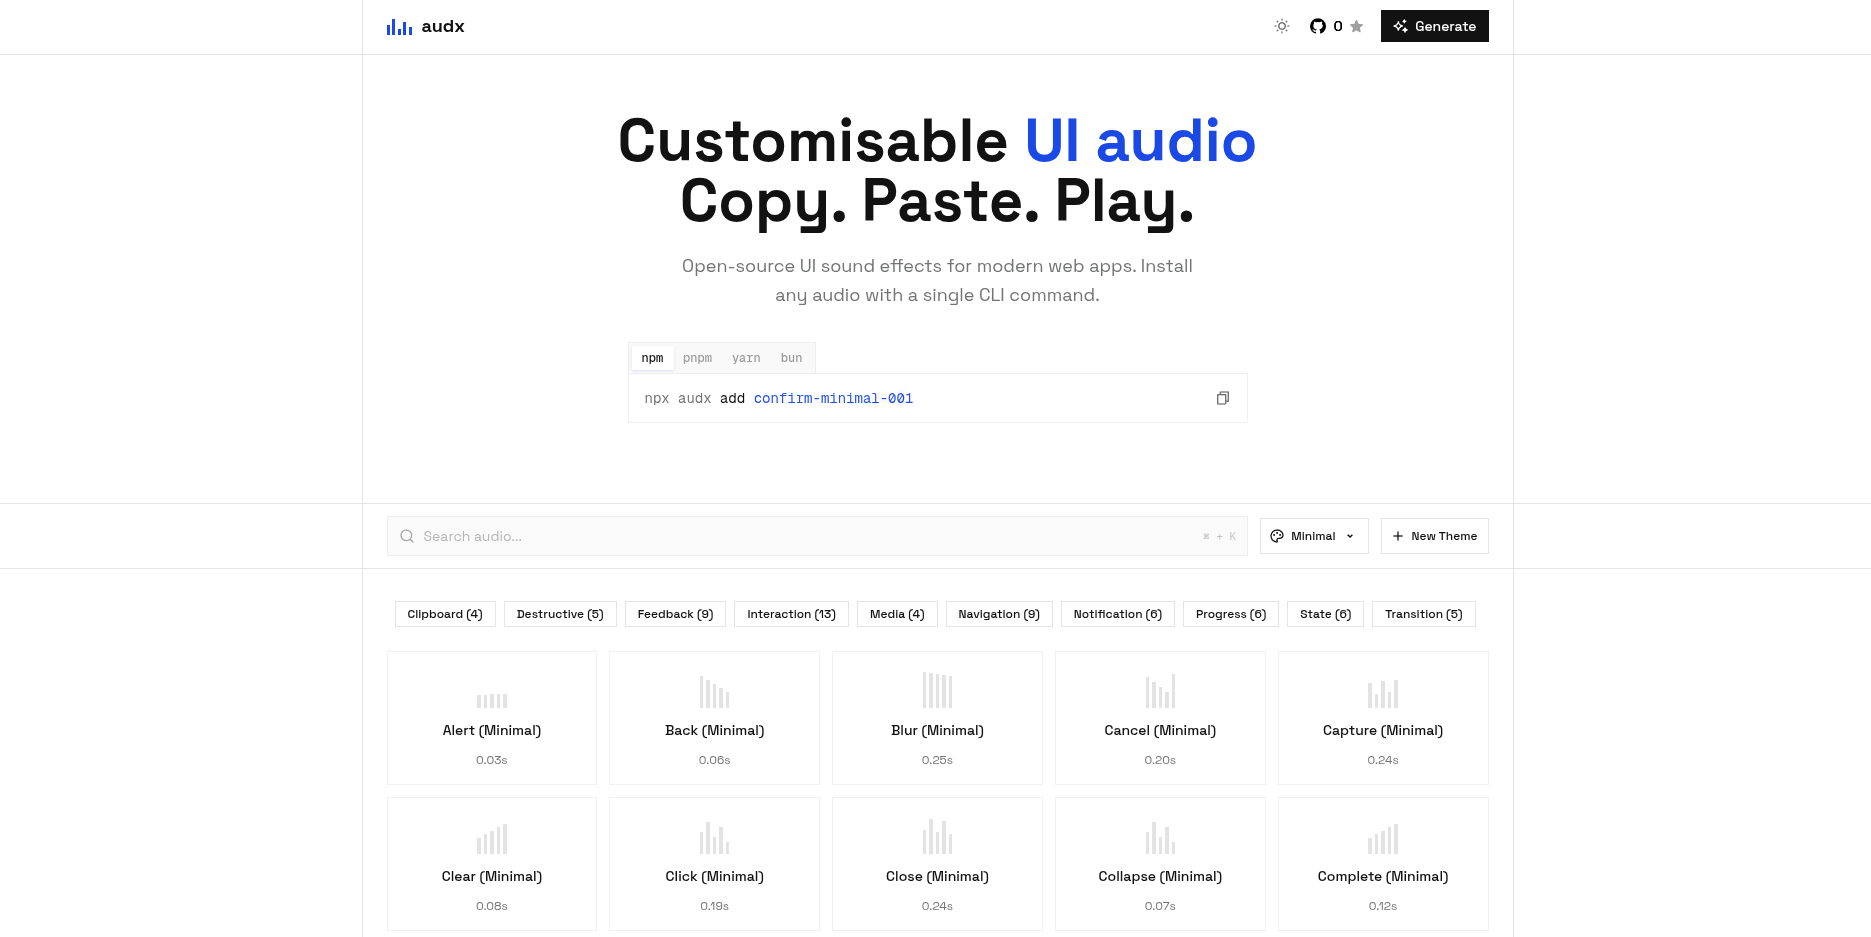
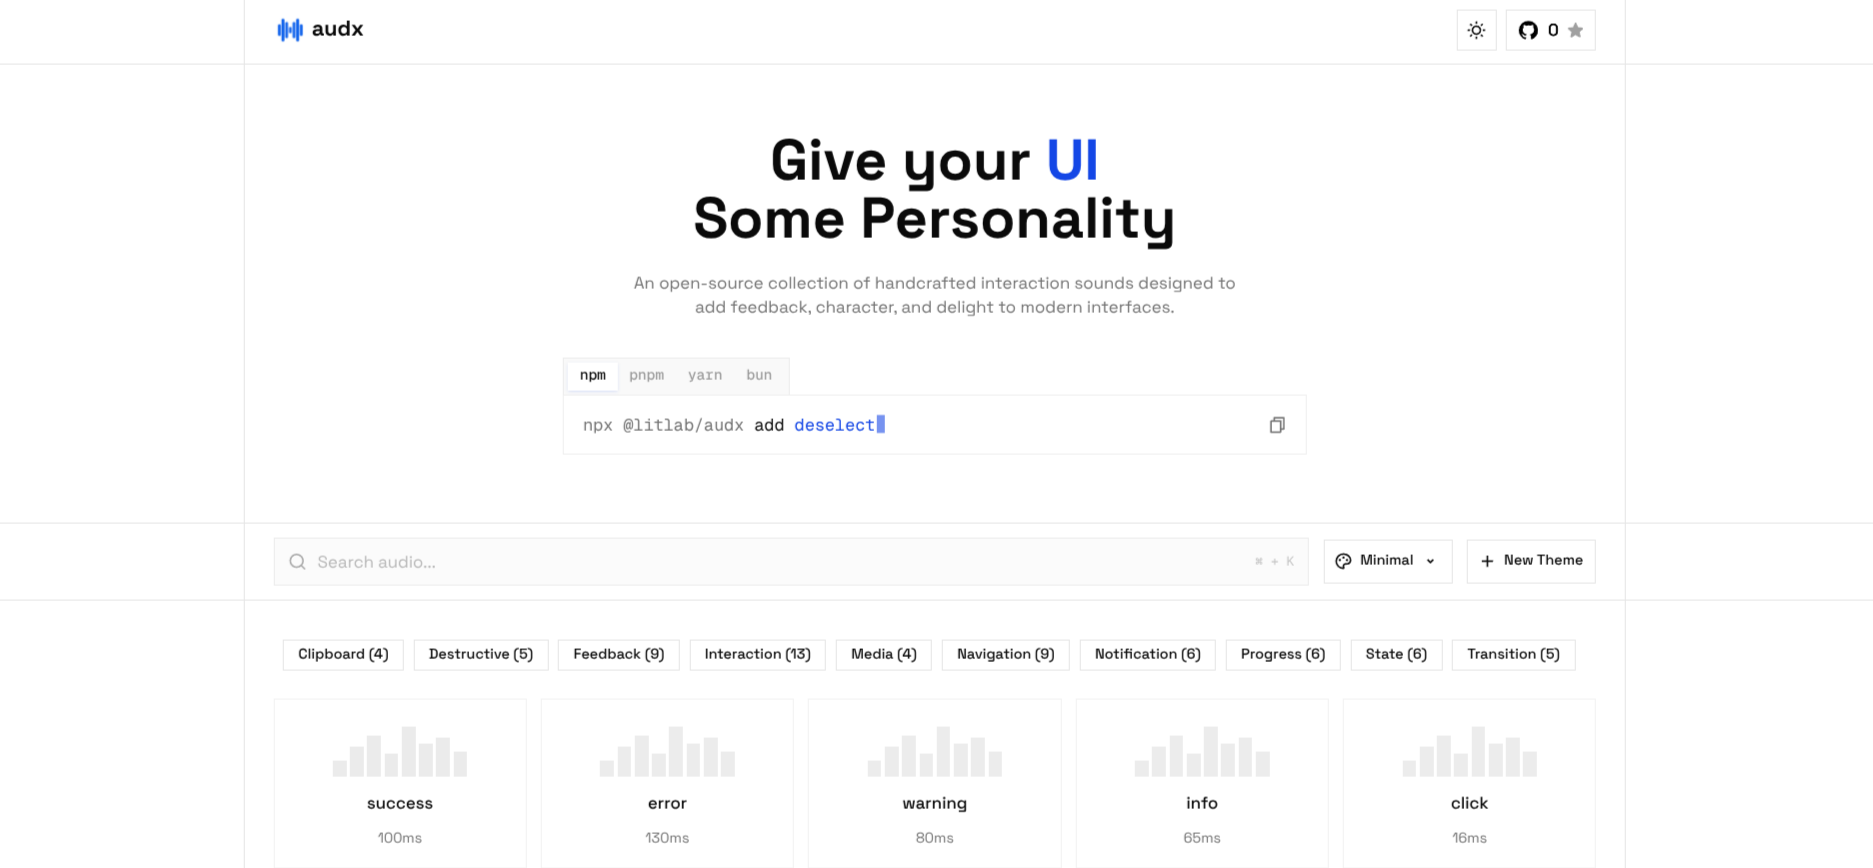
ui(landing): improve hero section branding

diff --git a/components/package-manager-switcher.tsx b/components/package-manager-switcher.tsx
@@ -1,97 +1,103 @@
 "use client";
 
-import { useCallback, useEffect, useRef, useState } from "react";
+import {
+  useCallback,
+  useEffect,
+  useLayoutEffect,
+  useRef,
+  useState,
+} from "react";
 import { PACKAGE_MANAGERS, type PackageManager } from "@/lib/package-manager";
 import { cn } from "@/lib/utils";
 
 interface PackageManagerSwitcherProps {
-	value: PackageManager;
-	onChange: (pm: PackageManager) => void;
+  value: PackageManager;
+  onChange: (pm: PackageManager) => void;
 }
 
 export function PackageManagerSwitcher({
-	value,
-	onChange,
+  value,
+  onChange,
 }: PackageManagerSwitcherProps) {
-	const containerRef = useRef<HTMLDivElement>(null);
-	const [indicator, setIndicator] = useState({ x: 0, width: 0, baseWidth: 1 });
-	const measured = useRef(false);
+  const containerRef = useRef<HTMLDivElement>(null);
+  const [indicator, setIndicator] = useState({ x: 0, width: 0, baseWidth: 1 });
+  const measured = useRef(false);
 
-	const measure = useCallback(() => {
-		const container = containerRef.current;
-		if (!container) return;
-		const activeBtn = container.querySelector<HTMLButtonElement>(
-			"[aria-checked='true']",
-		);
-		if (!activeBtn) return;
-		const firstBtn = container.querySelector<HTMLButtonElement>("button");
-		const baseWidth = firstBtn?.offsetWidth || activeBtn.offsetWidth;
-		setIndicator({
-			x: activeBtn.offsetLeft,
-			width: activeBtn.offsetWidth,
-			baseWidth,
-		});
-		measured.current = true;
-	}, []);
+  const measure = useCallback(() => {
+    const container = containerRef.current;
+    if (!container) return;
+    const activeBtn = container.querySelector<HTMLButtonElement>(
+      "[aria-checked='true']",
+    );
+    if (!activeBtn) return;
+    const firstBtn = container.querySelector<HTMLButtonElement>("button");
+    const baseWidth = firstBtn?.offsetWidth || activeBtn.offsetWidth;
+    setIndicator({
+      x: activeBtn.offsetLeft,
+      width: activeBtn.offsetWidth,
+      baseWidth,
+    });
+    measured.current = true;
+  }, []);
 
-	useEffect(() => {
-		measure();
-	}, [measure]);
+  useLayoutEffect(() => {
+    measure();
+  }, [measure, value]);
 
-	// Re-measure on resize (font loading can shift widths)
-	useEffect(() => {
-		const ro = new ResizeObserver(measure);
-		if (containerRef.current) ro.observe(containerRef.current);
-		return () => ro.disconnect();
-	}, [measure]);
+  // Re-measure on resize (font loading can shift widths)
+  useEffect(() => {
+    const ro = new ResizeObserver(measure);
+    if (containerRef.current) ro.observe(containerRef.current);
+    return () => ro.disconnect();
+  }, [measure]);
 
-	return (
-		<div
-			ref={containerRef}
-			className="relative inline-flex items-center rounded-lg border border-border/60 bg-secondary/50 p-[3px] backdrop-blur-sm"
-			role="radiogroup"
-			aria-label="Package manager"
-		>
-			{/* Sliding active indicator */}
-			{indicator.width > 0 && (
-				<span
-					className={cn(
-						"absolute top-[3px] bottom-[3px] rounded-md bg-background shadow-sm shadow-primary/10 dark:shadow-primary/5",
-						measured.current && "transition-transform duration-200 ease-out",
-					)}
-					style={{
-						width: indicator.baseWidth,
-						transform: `translateX(${indicator.x}px) scaleX(${indicator.width / indicator.baseWidth})`,
-						transformOrigin: "left",
-					}}
-					aria-hidden="true"
-				/>
-			)}
+  return (
+    <div
+      ref={containerRef}
+      className="relative inline-flex items-center rounded-lg border border-border/60 bg-secondary/50 p-[3px] backdrop-blur-sm"
+      role="radiogroup"
+      aria-label="Package manager"
+    >
+      {/* Sliding active indicator */}
+      {indicator.width > 0 && (
+        <span
+          className={cn(
+            "absolute top-[3px] bottom-[3px] rounded-md bg-background shadow-sm shadow-primary/10 dark:shadow-primary/5",
+            measured.current && "transition-transform duration-200 ease-out",
+          )}
+          style={{
+            width: indicator.baseWidth,
+            transform: `translateX(${indicator.x}px) scaleX(${indicator.width / indicator.baseWidth})`,
+            transformOrigin: "left",
+          }}
+          aria-hidden="true"
+        />
+      )}
 
-			{PACKAGE_MANAGERS.map((pm) => {
-				const isActive = pm === value;
-				return (
-					// biome-ignore lint/a11y/useSemanticElements: <explanation>
-					<button
-						type="button"
-						key={pm}
-						role="radio"
-						aria-checked={isActive}
-						onClick={() => {
-							onChange(pm);
-						}}
-						className={cn(
-							"relative z-10 rounded-md px-2.5 py-1 font-mono text-xs font-medium transition-colors duration-150",
-							"focus-visible:ring-2 focus-visible:ring-ring/50 focus-visible:outline-none",
-							isActive
-								? "text-foreground"
-								: "text-muted-foreground/70 hover:text-muted-foreground",
-						)}
-					>
-						{pm}
-					</button>
-				);
-			})}
-		</div>
-	);
+      {PACKAGE_MANAGERS.map((pm) => {
+        const isActive = pm === value;
+        return (
+          // biome-ignore lint/a11y/useSemanticElements: <explanation>
+          <button
+            type="button"
+            key={pm}
+            role="radio"
+            aria-checked={isActive}
+            onClick={() => {
+              onChange(pm);
+            }}
+            className={cn(
+              "relative z-10 rounded-md px-2.5 py-1 font-mono text-xs font-medium transition-colors duration-150",
+              "focus-visible:ring-2 focus-visible:ring-ring/50 focus-visible:outline-none",
+              isActive
+                ? "text-foreground"
+                : "text-muted-foreground/70 hover:text-muted-foreground",
+            )}
+          >
+            {pm}
+          </button>
+        );
+      })}
+    </div>
+  );
 }

diff --git a/components/editor/theme-generator.tsx b/components/editor/theme-generator.tsx
@@ -74,18 +74,6 @@ const PRESETS: Record<string, PresetTheme> = {
       waveform: "triangle",
     },
   },
-  digital: {
-    name: "Digital",
-    description: "Crisp synthetic ticks for product interfaces.",
-    controls: {
-      character: 0.15,
-      brightness: 0.75,
-      motion: 0.45,
-      duration: 0.9,
-      gain: 0.6,
-      waveform: "square",
-    },
-  },
 };
 
 const CATEGORY_TUNING: Record<
@@ -432,7 +420,7 @@ export function ThemeGenerator({
         </div>
 
         <div className="grid min-w-0 gap-4 sm:grid-cols-2 lg:grid-cols-1">
-          <div className="rounded-2xl border border-border/60 bg-background/70 p-4 shadow-sm">
+          <div className="relative rounded-2xl border border-border/60 bg-background/70 p-4 pb-9 shadow-sm">
             <div className="mb-4 flex items-center justify-between gap-3">
               <span className="font-semibold text-sm">Dynamics</span>
               <span className="font-mono text-muted-foreground text-xs">
@@ -477,7 +465,7 @@ export function ThemeGenerator({
                 </span>
               </div>
             </div>
-            <p className="absolute bottom-0 text-muted-foreground text-xs">
+            <p className="absolute bottom-4 left-4 right-4 text-muted-foreground text-xs">
               Double-click knobs to return to their default values
             </p>
           </div>
@@ -553,10 +541,9 @@ export function ThemeGenerator({
       <div className="space-y-3">
         <div className="flex flex-wrap items-center justify-between gap-3">
           <div>
-            <h3 className="text-sm font-medium">Fixed sound library</h3>
+            <h3 className="text-sm font-medium">Generated Library</h3>
             <p className="text-muted-foreground text-xs">
-              Browse and preview the canonical sounds. No sounds are added or
-              removed.
+              Browse and preview the generated theme sounds
             </p>
           </div>
           <Button type="button" onClick={() => playPreview()}>
@@ -626,10 +613,9 @@ export function ThemeGenerator({
 
       <div className="grid gap-4 border bg-card p-4 lg:grid-cols-[0.8fr_1.2fr]">
         <div>
-          <h3 className="text-sm font-medium">Generated theme package</h3>
+          <h3 className="text-sm font-medium">Save your theme</h3>
           <p className="mt-1 text-muted-foreground text-xs leading-relaxed">
-            Your saved theme includes the same fixed sound names as Minimal and
-            Playful, generated from the controls above.
+            Save theme to your library, generated from the controls above.
           </p>
           <div className="mt-4 grid grid-cols-3 gap-2 text-center">
             <div className="border bg-secondary/30 p-3">
@@ -638,11 +624,12 @@ export function ThemeGenerator({
             </div>
             <div className="border bg-secondary/30 p-3">
               <div className="font-mono text-lg">{categories.length}</div>
-              <div className="text-muted-foreground text-[11px]">groups</div>
+              <div className="text-muted-foreground text-[11px]">
+                categories
+              </div>
             </div>
-            <div className="border bg-secondary/30 p-3">
+            <div className="border bg-secondary/30 p-6">
               <div className="font-mono text-lg">JSON</div>
-              <div className="text-muted-foreground text-[11px]">hidden</div>
             </div>
           </div>
         </div>
@@ -686,7 +673,7 @@ export function ThemeGenerator({
                   className="mb-1.5 block font-medium text-xs"
                   htmlFor="theme-description"
                 >
-                  Description optional
+                  Description (optional)
                 </label>
                 <textarea
                   className="h-20 w-full resize-none border border-input bg-background px-3 py-2 text-xs outline-none focus-visible:border-ring focus-visible:ring-1 focus-visible:ring-ring/50"
@@ -716,9 +703,7 @@ export function ThemeGenerator({
                 type="button"
               >
                 <RiDownloadCloud2Line />
-                {isSaving
-                  ? "Saving..."
-                  : `Save complete ${SOUND_NAMES.length}-sound theme`}
+                {isSaving ? "Saving..." : `Save Theme`}
               </Button>
             </div>
           ) : (

diff --git a/components/hero.tsx b/components/hero.tsx
@@ -5,15 +5,15 @@ export function Hero({ items }: { items: AudioCatalogItem[] }) {
   return (
     <section className="relative overflow-hidden">
       <div className="relative mx-auto max-w-6xl border-x flex flex-col items-center px-6 pt-8 pb-7 sm:pt-14 sm:pb-14">
-        <h1 className="font-display text-4xl font-bold text-balance text-center sm:text-5xl lg:text-6xl">
-          Customisable <span className="text-primary">UI audio</span>
+        <h1 className="font-display text-4xl font-bold text-balance text-center sm:text-3xl lg:text-5xl">
+          Give your <span className="text-primary">UI</span>
           <br />
-          <span className="">Copy. Paste. Play.</span>
+          <span className="">Some Personality</span>
         </h1>
 
-        <p className="text-muted-foreground mt-5 max-w-lg text-base text-pretty text-center leading-relaxed sm:text-lg">
-          Open-source UI sound effects for modern web apps <br />
-          Install any audio with a single CLI command
+        <p className="text-muted-foreground mt-5 max-w-lg text-sm text-center">
+          An open-source collection of handcrafted interaction sounds designed
+          to add feedback, character, and delight to modern interfaces.
         </p>
 
         <div className="mt-8 w-full max-w-[620px]">
